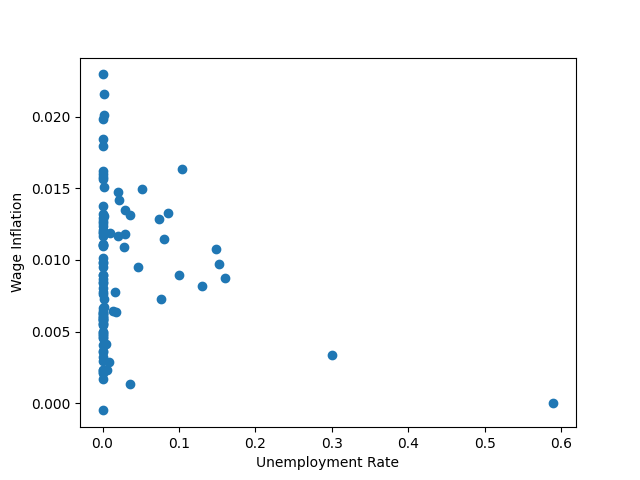
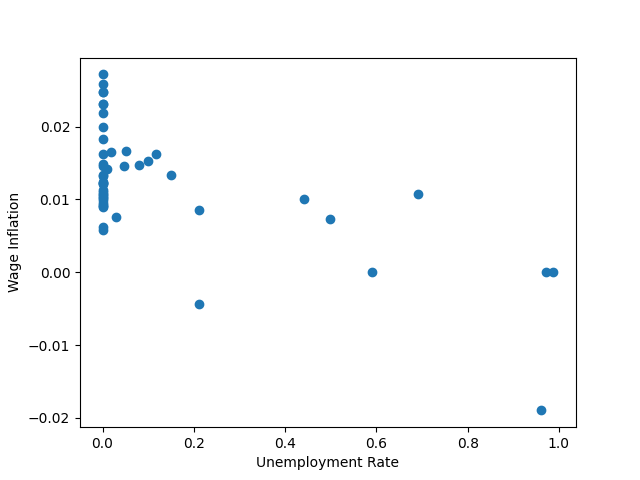
finishing toy model

diff --git a/models/BAM.py b/models/BAM.py
@@ -207,7 +207,7 @@ class BAM_base:
                 id_F[f] = f + 1 # set id 
                 f_data[:,f,0] = f+1 # start with 1 for id
                 Wp[f] = np.random.uniform(low = (aa-1), high = (aa+1)) # initial wage is random number around initial minimum required wage
-                p[f] = np.round(np.random.uniform(low = 11.5, high = 14), decimals=2)
+                p[f] = np.round(np.random.uniform(low = 2, high = 5), decimals=2)
 
 
             # BANKS
@@ -344,7 +344,7 @@ class BAM_base:
                         Lhat[i] = Lhat[i] + n # updateNumberOfExpiredContracts: add number of fired workers n and update fired workers (in this round) 
                         L[i] = len(w_emp[i]) # updateTotalEmployees: workforce or length of list with workers id, i.e. the number of wokers signed at firm i
                         """calcVacancies of firm i"""
-                        vac[i] = int((Ld[i] - L[i] + Lhat[i])) # labour demanded (determined before) minus labour employed + Labor whose contracts are expiring
+                        vac[i] = int((Ld[i] - L[i] + Lhat[i])) # labour demanded (determined before) minus current labour employed + Labor whose contracts are expiring
                         if vac[i] > 0: 
                             f_empl.append(i+1) # if firm i has vacancies => then save firm_id (i) to list 
                     """setWage"""
@@ -679,6 +679,7 @@ class BAM_base:
                 print("Firms producing....!")
                 # doProduction
                 for f in range(self.Nf):
+                    Qs[f] = 0 # resetQtySold
                     if t > 0:
                         Qp_last[f] = Qp[f] # last quantity produced of last round 
                     # setActualQty: Firms producing their products
@@ -698,12 +699,12 @@ class BAM_base:
                 c_ids = np.array(range(self.Nh)) + 1 # initialize consumer ids starting with 1 (not 0)
                 f_ids = np.array(range(self.Nf)) + 1 # initialize firm ids starting with 1 (not 0)
                 savg = self.S_avg[t-1,mc] # slice average saving of last round (0 in t = 0)
-                """f_id = list(f_ids) # convert ids to list, which might altered in the following, but is initialized again for each HH
+                f_id = list(f_ids) # initialize list to exclude firms in the following that did not produce (list ist inialized again when each HH consumes in A)
                 for f in f_ids:
                     if Qp[f-1] <= 0: # remove firm id from list if quantity produced = 0
                         f_id.remove(f)
                 if len(f_id) == 0:
-                    print("NO firms produced anything")"""
+                    print("NO firms produced anything")
                 
                 print("Consumption Goods market OPENS!!!")
                 print("")
@@ -737,7 +738,7 @@ class BAM_base:
                         Qp_f_last = Qp_last[f_last] # slice out the produced quantities of last round by firms the HH 
                         i = np.argmax(Qp_f_last) # entry with max quantity 
                         # Largest of the firms the HH bought from last round is only choosen in case the same firm actually produced this round or not went bankrupt last round
-                        if f_last[i] in f_id and bankrupt_flag[f] == 0:
+                        if f_last[i] in f_id and bankrupt_flag[i] == 0:
                             select_f.append(f_last[i]) # HH directly sets biggest firm she purchased from last round as one of her choices to satisfy demand later
                             f_id.remove(f_last[i]) # remove already choosen firm from the universe of firms the HH chooses
                             Z = self.Z-1 # parameter Z (number of firms to buy products from) is reduced by 1, since HH choose biggest firm she purchased from last round
@@ -746,7 +747,7 @@ class BAM_base:
 
                     # HH c chooses random firms to (potentially) buy products from
                     if len(f_id) > 0: # if there are any firms producing
-                        if len(f_id) >= Z: # & if there are enough firms to be matched
+                        if len(f_id) > Z: # & if there are enough firms to be matched
                             select_f.extend(np.random.choice(f_id, self.Z, replace = False)) # select random list of firms to go to and buy products from 
                         else:
                             select_f.extend(f_id) # no random firms to choose because number of firms which produced = Z
@@ -1225,9 +1226,6 @@ class BAM_base:
                 outstanding_flag = np.zeros(self.Nf) 
                 outstanding_to_bank = [[] for _ in range(self.Nf)] 
                 r_f = [[] for _ in range(self.Nf)] # rate of interest on credit by banks for which a match occured
-
-                for f in range(self.Nf):
-                    Qs[f] = 0 # resetQtySold
 
                 # 3) Banks
                 Cr_p = np.zeros(self.Nb)

diff --git a/models/toymodel.py b/models/toymodel.py
@@ -1,44 +1,55 @@
 import numpy as np
 
+"""Explaining model in short words..."""
+
 class Toymodel:
-    # initialize the class / construct objects / instructor -> assign arguments passed to attributes of the class 
+    """ Initializing the class and constructer objects (init class) by assign arguments passed to attributes of the class. 
+    These attributes from the init class can then be used throughout all methods of the particular class.""" 
     def __init__(self, Time: int, Ni: int, MC: int, gamma: int, phi: int, pbar: int, delta:int, rbar: int):
-        # simulation hyperparameter
+        """simulation hyperparameter"""
         self.Time = Time # number of simulation runs
         self.Ni = Ni # number of firms
         self.MC = MC # MC runs
-        # model parameters
+        
+        """model parameters"""
         self.gamma = gamma # investment accelerator
         self.phi = phi # capital productivity
         self.pbar = pbar # constant price part 
         self.delta = delta # capital depreceation rate
         self.rbar = rbar # constant interest rate part
     
-    # run the simulation with the simulation method
+    """ The simulation is run with the simulation method"""
     def simulation(self):
         
-        # aggregate report variables: dim = MC x Time (1 time series for each MC run)
+        """ Aggregate report variables: dimension = Time x MC (1 time series for each MC run)"""
         YY = np.zeros((self.Time,self.MC)) # aggregate production
         AA = np.zeros((self.Time,self.MC)) # aggregate net worth
         BB = np.zeros((self.Time,self.MC)) # aggregate debt
         LEV = np.zeros((self.Time,self.MC)) # leverage 
         
         for mc in range(self.MC):
-            print("MC run %s" %mc)
-            # employ different sequence of random numbers during each simulation, i.e. assign to every simuation a different seed
-            # np.random.seed(mc) 
             
-            # individual variables (for each agent): due to memory stoarge, it is always overwritten with each new mc run 
-            A = np.ones((self.Ni, 1)) # net worth
-            K = np.ones((self.Ni, 1)) # capital
-            B = np.ones((self.Ni, 1)) # debt
-            I = np.ones((self.Ni, 1)) # investment
-            P = np.ones((self.Ni, 1)) # prices
-            Y = np.ones((self.Ni, 1)) # production
-            Z = np.ones((self.Ni, 1)) # profits 
+            """ By setting a different seed for each mc run a different sequence of random numbers is sampled during each simulation."""
+            np.random.seed(mc) 
 
-            for t in range(2, self.Time + 1):
-                print("do computations and fill aggregated variables")
+            print("MC run %s" %mc)
+
+            """ Initializing the individual report variables. Data is overwritten with each time period t (i.e. no tensors used here).""" 
+            A = np.ones(self.Ni) # net worth
+            K = np.ones(self.Ni) # capital
+            B = np.zeros(self.Ni) # debt
+            I = np.zeros(self.Ni) # investment
+            P = np.zeros(self.Ni) # prices (stochastic)
+            Y = np.zeros(self.Ni) # production
+            Z = 2*np.random.uniform(low=0,high=1, size = self.Ni) + self.pbar # profits are scaled random uniform distributed numbers
+            R = np.ones(self.Ni) # interest rates
+            LEV = np.zeros(self.Ni) # leverage
+            
+
+            for t in range(self.Time):
+                print("blub")
+                """1) Each firm determines investment level"""
+                I = self.gamma * Z
     
         return YY, AA, BB, LEV
 

diff --git a/main.py b/main.py
@@ -4,9 +4,9 @@ from models.toymodel import Toymodel # importing toy model (benchmark?)
 from models.BAM import BAM_base # BAM base model
 
 """Simulating the toy model"""
-#toymodel = Toymodel(Time=10, Ni=100, MC=3, gamma=2, phi=0.1, pbar=0.01, delta=0.05, rbar=0.075)
-#ts = toymodel.simulation()
-
+toymodel = Toymodel(Time=1000, Ni=100, MC=0, gamma=2, phi=0.1, pbar=0.01, delta=0.05, rbar=0.075)
+toymodel_simulation = toymodel.simulation()
+print(toymodel_simulation)
 
 
 #################################################################################################
@@ -14,15 +14,15 @@ from models.BAM import BAM_base # BAM base model
 #################################################################################################
 
 """ intial Parameters to be estimated later"""
-parameters = {'Nh':50, 'Nf':10, 'Nb':10, 'T':1000, 
+parameters = {'Nh':500, 'Nf':100, 'Nb':10, 'T':100, 
               'Z':3, 'M':4, 'H':2, 'H_eta': 0.1, 'H_rho':0.1, 'H_phi':0.01, 'h_xi':0.05,
               'c_P':1, 'c_R':0.5}
 # 'Z':2 im Buch -> bei ihm 3 !!!
 
 """ simulate the base model"""
 BAM = BAM_base(MC = 1, parameters=parameters, plots=True) 
-BAM_simulate = BAM.simulation()
-print(BAM_simulate)
+BAM_simulation = BAM.simulation()
+print(BAM_simulation)
 
 # structure: 
 # Class model# 
